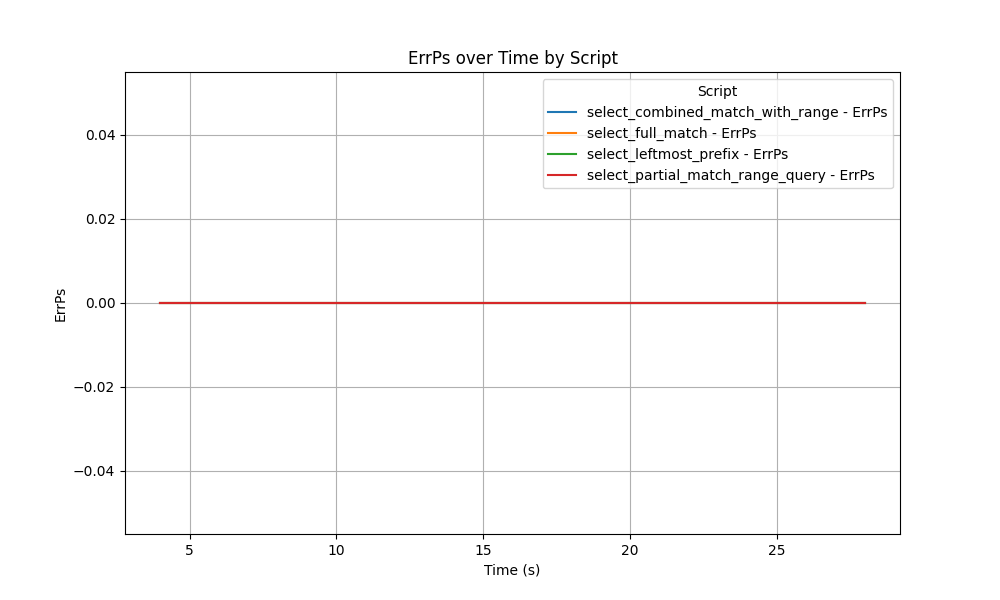
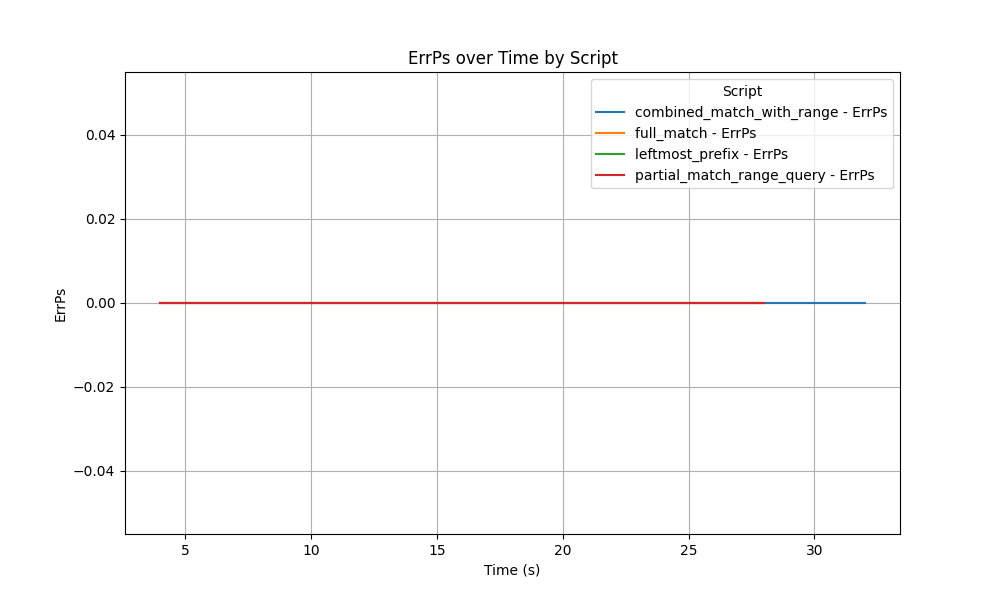
fixes script_name issue in generateCombinedCSV.py and errors with multiple lengths/selects

diff --git a/Tools/Python/generateCombinedCSV.py b/Tools/Python/generateCombinedCSV.py
@@ -1,5 +1,6 @@
 import pandas as pd
 import argparse
+import re
 
 # Argument Parser
 parser = argparse.ArgumentParser(description="Process sysbench output CSV file")
@@ -29,7 +30,13 @@ for base_script in insert_rows['Base_Script'].unique():
             merged = merged.assign(
                 **{m: merged[f'{m}_insert'] + merged[f'{m}_select'] for m in metrics}
             )
-            merged['Script'] = select_script.replace('query_differences_', '').replace('_select', '')
+
+            match = re.match(r'.*?(?:_(\d+))?_select_(.*)', select_script)
+            if match:
+                number, core_name = match.groups()
+                script_name = f"{core_name}_{number}" if number else core_name
+
+            merged['Script'] = script_name
             merged = merged.drop(columns=['Base_Script'])
             combined.append(merged)
 # One select per insert
